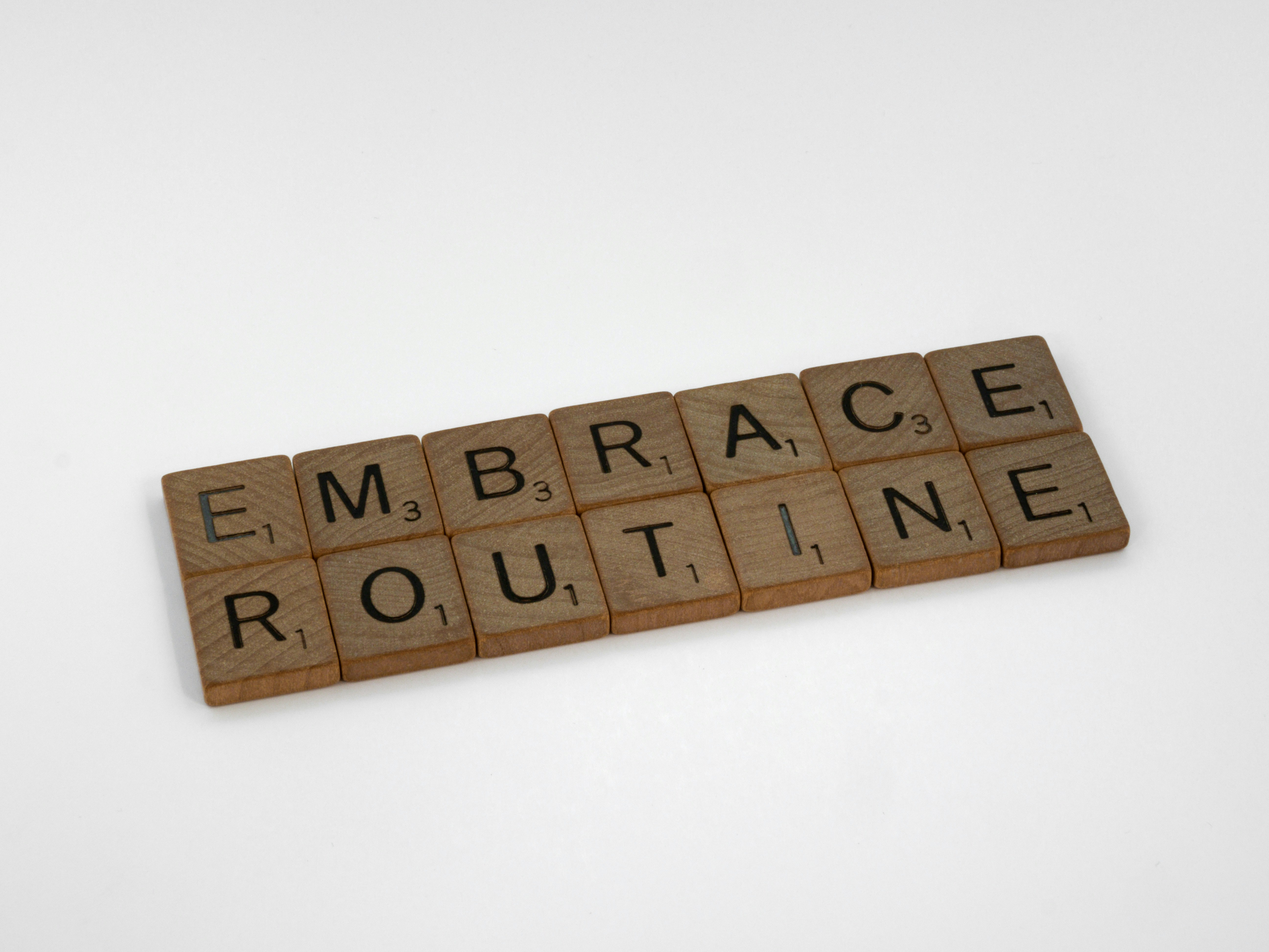
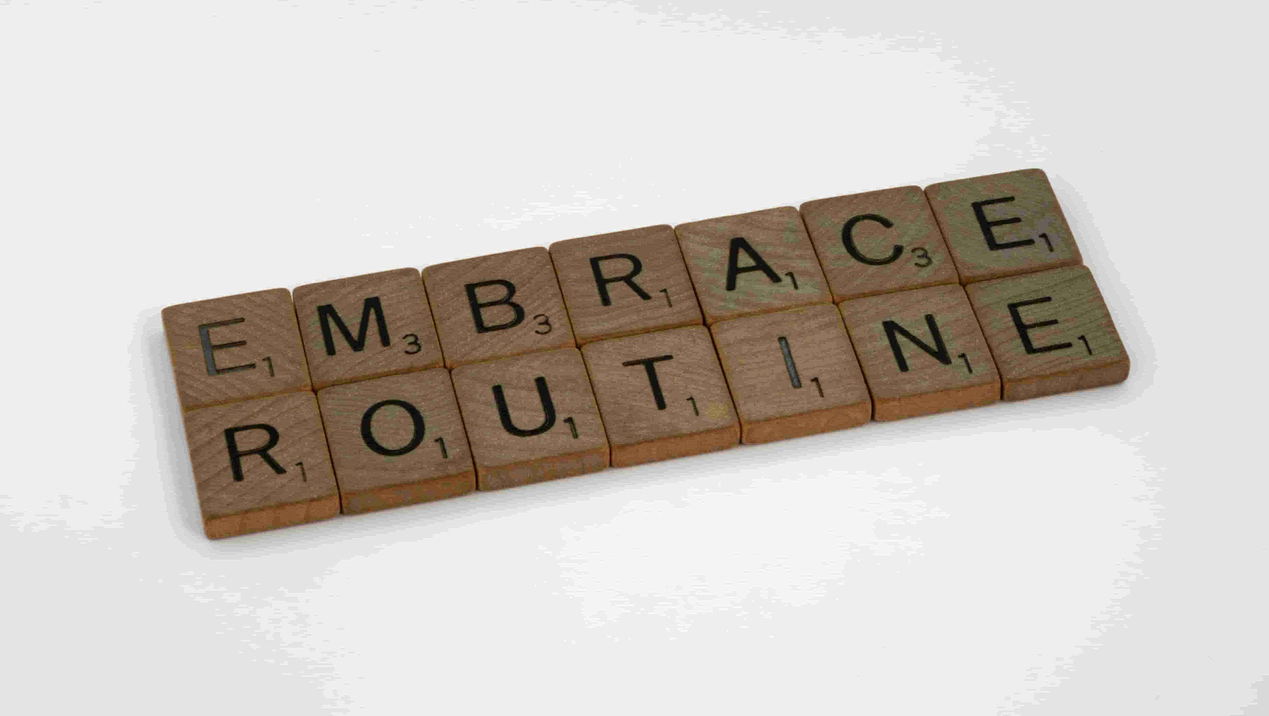
compressed image for precache

Changed region(s): [[0.0938, 0.2179, 0.9062, 0.778]]

diff --git a/client/vite.config.ts b/client/vite.config.ts
@@ -13,6 +13,7 @@ export default defineConfig({
       includeAssets: ["favicon-32x32.png", "apple-touch-icon.png"],
       workbox: {
         navigateFallbackDenylist: [/^\/robots\.txt$/, /^\/sitemap\.xml$/],
+        globPatterns: ["**/*.{js,css,html,jpg,jpeg,png,svg,webp,ico}"],
       },
       manifest: {
         name: "Routine Works",

diff --git a/client/src/components/(reusable)/Carousel.tsx b/client/src/components/(reusable)/Carousel.tsx
@@ -37,7 +37,7 @@ export default function Carousel() {
       setTimeout(() => {
         imageDispatch({ type: "NEXT" });
         setFade(true);
-      }, 800);
+      }, 900);
     }, 9000);
     return () => clearInterval(id);
   }, []);
